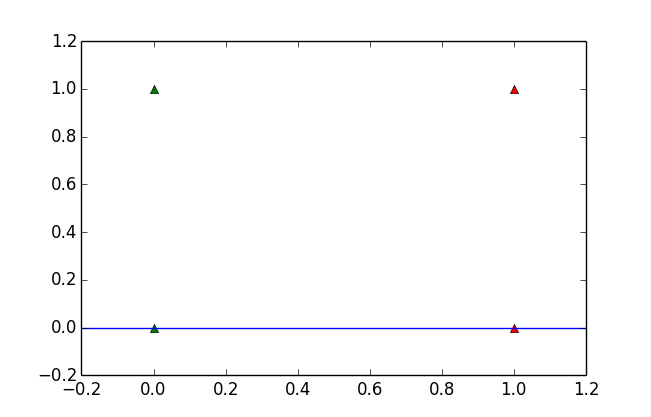
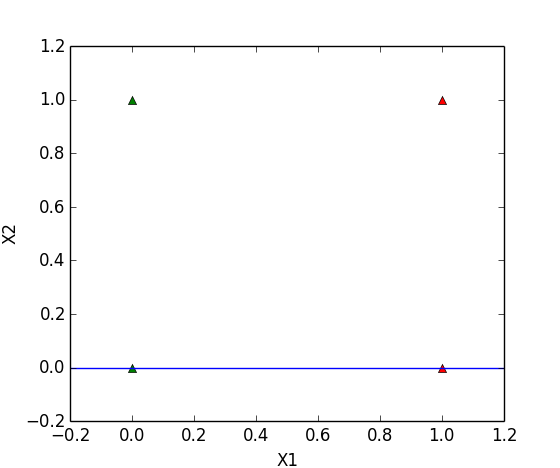
Continued report

diff --git a/Neural Networks/assignment1/assignment1.tex b/Neural Networks/assignment1/assignment1.tex
@@ -1,4 +1,8 @@
 \documentclass{article}
+\usepackage{algorithm2e}
+\usepackage{graphicx}
+
+\DeclareGraphicsExtensions{.png}
 
 \title{Neural Networks: Assignment 1}
 \author{Candidate Number: 18512}
@@ -12,22 +16,34 @@ This report will detail the implementation of a single layer perceptron for the 
 
 \section*{Part A: Classification}
 \subsection*{Question 1}
-Both sequential \& batch gradient descent algorithms were used in this implementation for the sake of comparison between the two. \\
-In both cases, the Perceptron Criterion error function is used, because unlike more naive error functions, Perceptron Criterion function yields a value proportional to the (sum of the) distance from the decision boundary. This is useful because any change in weights will correspond to a change in the value that the error function yields, which allows us to calculate the gradient of the error function, which in turn allows us to learn the optimum decision boundary via gradient descent. If a change in weights does not correspond to a change in error, we cannot determine whether the weight adjustment improved or worsened our learned function. \\
-Initial weights were all zero as specified in the assignment brief. \\
-The choice of learning rate for this task is not terribly important - it should be large enough that it does not cause the algorithm to do unnecessary extra iterations, and not be so great as to prevent convergence. 0.1 was found to be sufficient.
+Sequential gradient descent was used, as it is somewhat simpler to implement, and for such a simple case, there is no benefit in terms of what we want to demonstrate, to using a more complicated implementation. Batch gradient descent will be used in the latter questions of this assignment, however. \\
+\indent The Perceptron Criterion error function is used in this task, because unlike more naive error functions, Perceptron Criterion function yields a value proportional to the (sum of the) distance from the decision boundary. This is useful because any change in weights will correspond to a change in the value that the error function yields, which allows us to calculate the gradient of the error function, which in turn allows us to learn the optimum decision boundary via gradient descent. If a change in weights does not correspond to a change in error, we cannot determine whether the weight adjustment improved or worsened our learned function. \\
+\indent The choice of learning rate for this task is not terribly important - it should be large enough that it does not cause the algorithm to do unnecessary extra iterations, and not be so great as to prevent convergence. 0.1 was found to be sufficient. \\
+\indent Initial weights were all zero as specified in the assignment brief. \\
 
 \subsubsection*{Training Procedure}
-The training procedure for sequential gradient descent is as follows:
+The training procedure for sequential gradient descent is as follows: \\
 
-\begin{verbatim}
-Procedure GradientDescentSequential(trainingData, weights, learningRate):
-    while procedure not converged:
-        for each incorrectly classified instance in trainingData:
-            update weights in proportion to learningRate so
-            instance is (closer to being) correctly classified
-    output weights
-\end{verbatim}
+\begin{algorithm}[H]{\textbf{Procedure}: GradientDescentSequential} \\
+    \KwIn{trainingData, weights, learningRate}
+    \SetAlgoLined
+    \Begin{
+        \While{any element of trainingData is incorrectly classified} {
+            \For{each instance in trainingData} {
+                \If{instance is correctly classified} {
+                    update weights in proportion to learningRate so instance is (closer to being) correctly classified
+                }
+            }
+        }
+    }
+    \KwResult{weights}
+\end{algorithm}
+\vspace{4mm}
+
+\noindent At the heart of this algorithm is the weight update step. To determine how we will update the weights, we use the Perceptron Criterion error function:
+\[E^{Perc} = -\sum_{i = 1}^{m} \underline{x}_{i} . \underline{y}_{i} t_{i} \hspace{2mm} \textrm{for all misclassified} \hspace{2mm} x_{i}\]
+With batch gradient descent, we can simply update every weight by the amount returned by this error function, multiplied by the learning rate. However, when applying this error function to sequential gradient descent, we get the following update rule:
+\[w_{t+1} = w_{t} + \eta \underline{x}_{i} t_{i}\]
 
 \subsubsection*{Learnable Patterns}
 The implemented single layer perceptron was able to learn four of the six given patterns:
@@ -46,7 +62,7 @@ The implemented single layer perceptron was able to learn four of the six given 
                 & 0  & 0  & -     &         & 0  & 0  & +     \\
     \end{tabular}
 \end{center}
-Pattern sets 1 \& 2 are equivalent modulo the choice of class names, and as a result are learnt in the same number of iterations (3). The same is the case for pattern sets 3 \& 4. The ones that cannot be learnt are just so because they are not linearly separable i.e. there exists no linear boundary that separates all instances of one class from all instances of the other. These are given below:
+Pattern sets 1 \& 2 are equivalent modulo the choice of class names, and as a result are learnt in the same number of iterations (2). The same is the case for pattern sets 3 \& 4. The ones that cannot be learnt are just so because they are not linearly separable i.e. there exists no linear boundary that separates all instances of one class from all instances of the other. These are given below:
 \begin{center}
     \begin{tabular}{ l | c c c | l | c c c }
                 & X1 & X2 & Label &         & X1 & X2 & Label \\
@@ -62,15 +78,26 @@ The following table shows the learned weights and number of iterations for each 
     \begin{tabular}{ c | c | c | c | c }
         Pattern Set & Bias & Weight 1 & Weight 2 & Iterations \\
         \hline
-        1           & 0    & -0.2     & 0        & 3          \\
+        1           & 0    & -0.2     & 0        & 2          \\
         \hline
-        2           & -0.1 & 0.2      & 0        & 3          \\
+        2           & -0.1 & 0.2      & 0        & 2          \\
         \hline
-        3           & 0    & 0        & -0.1     & 3          \\
+        3           & 0    & 0        & -0.1     & 2          \\
         \hline
-        4           & -0.1 & 0        & 0.1      & 3          \\
+        4           & -0.1 & 0        & 0.1      & 2          \\
     \end{tabular}
 \end{center}
+
+The graphs below show the state of the decision boundary after each iteration, for pattern set 4: \\
+
+\centerline{\textbf{Initial State}: Bias = 0, W1 = 0, W2 = 0}
+\centerline{\includegraphics[width=200px]{partA1_iter1}}
+\vspace{6mm}
+\centerline{\textbf{After First Iteration}: Bias = 0, W1 = 0, W2 = 0.1}
+\centerline{\includegraphics[width=200px]{partA1_iter2}}
+\vspace{6mm}
+\centerline{\textbf{After Second Iteration} (final state): Bias = -0.1, W1 = 0, W2 = 0.1}
+\centerline{\includegraphics[width=200px]{partA1_iter3}}
 
 \subsection*{Question 2}
 

diff --git a/Neural Networks/assignment1/assignment1.py b/Neural Networks/assignment1/assignment1.py
@@ -225,6 +225,8 @@ def doPartA1():
         # Plot the points & line
         plot.plot(posX2vals, posX1vals, 'r^', negX2vals, negX1vals, 'g^',
                 linex1s, linex2s, linewidth=1.0)
+        plot.xlabel('X1')
+        plot.ylabel('X2')
         plot.ylim([-0.2, 1.2])
         plot.xlim([-0.2, 1.2])
         plot.show()
@@ -311,7 +313,7 @@ def doPartB2():
     plot.show()
 
 if __name__ == "__main__":
-    #doPartA1()
+    doPartA1()
     #doPartA2()
     #doPartB1()
-    doPartB2()
+    #doPartB2()
